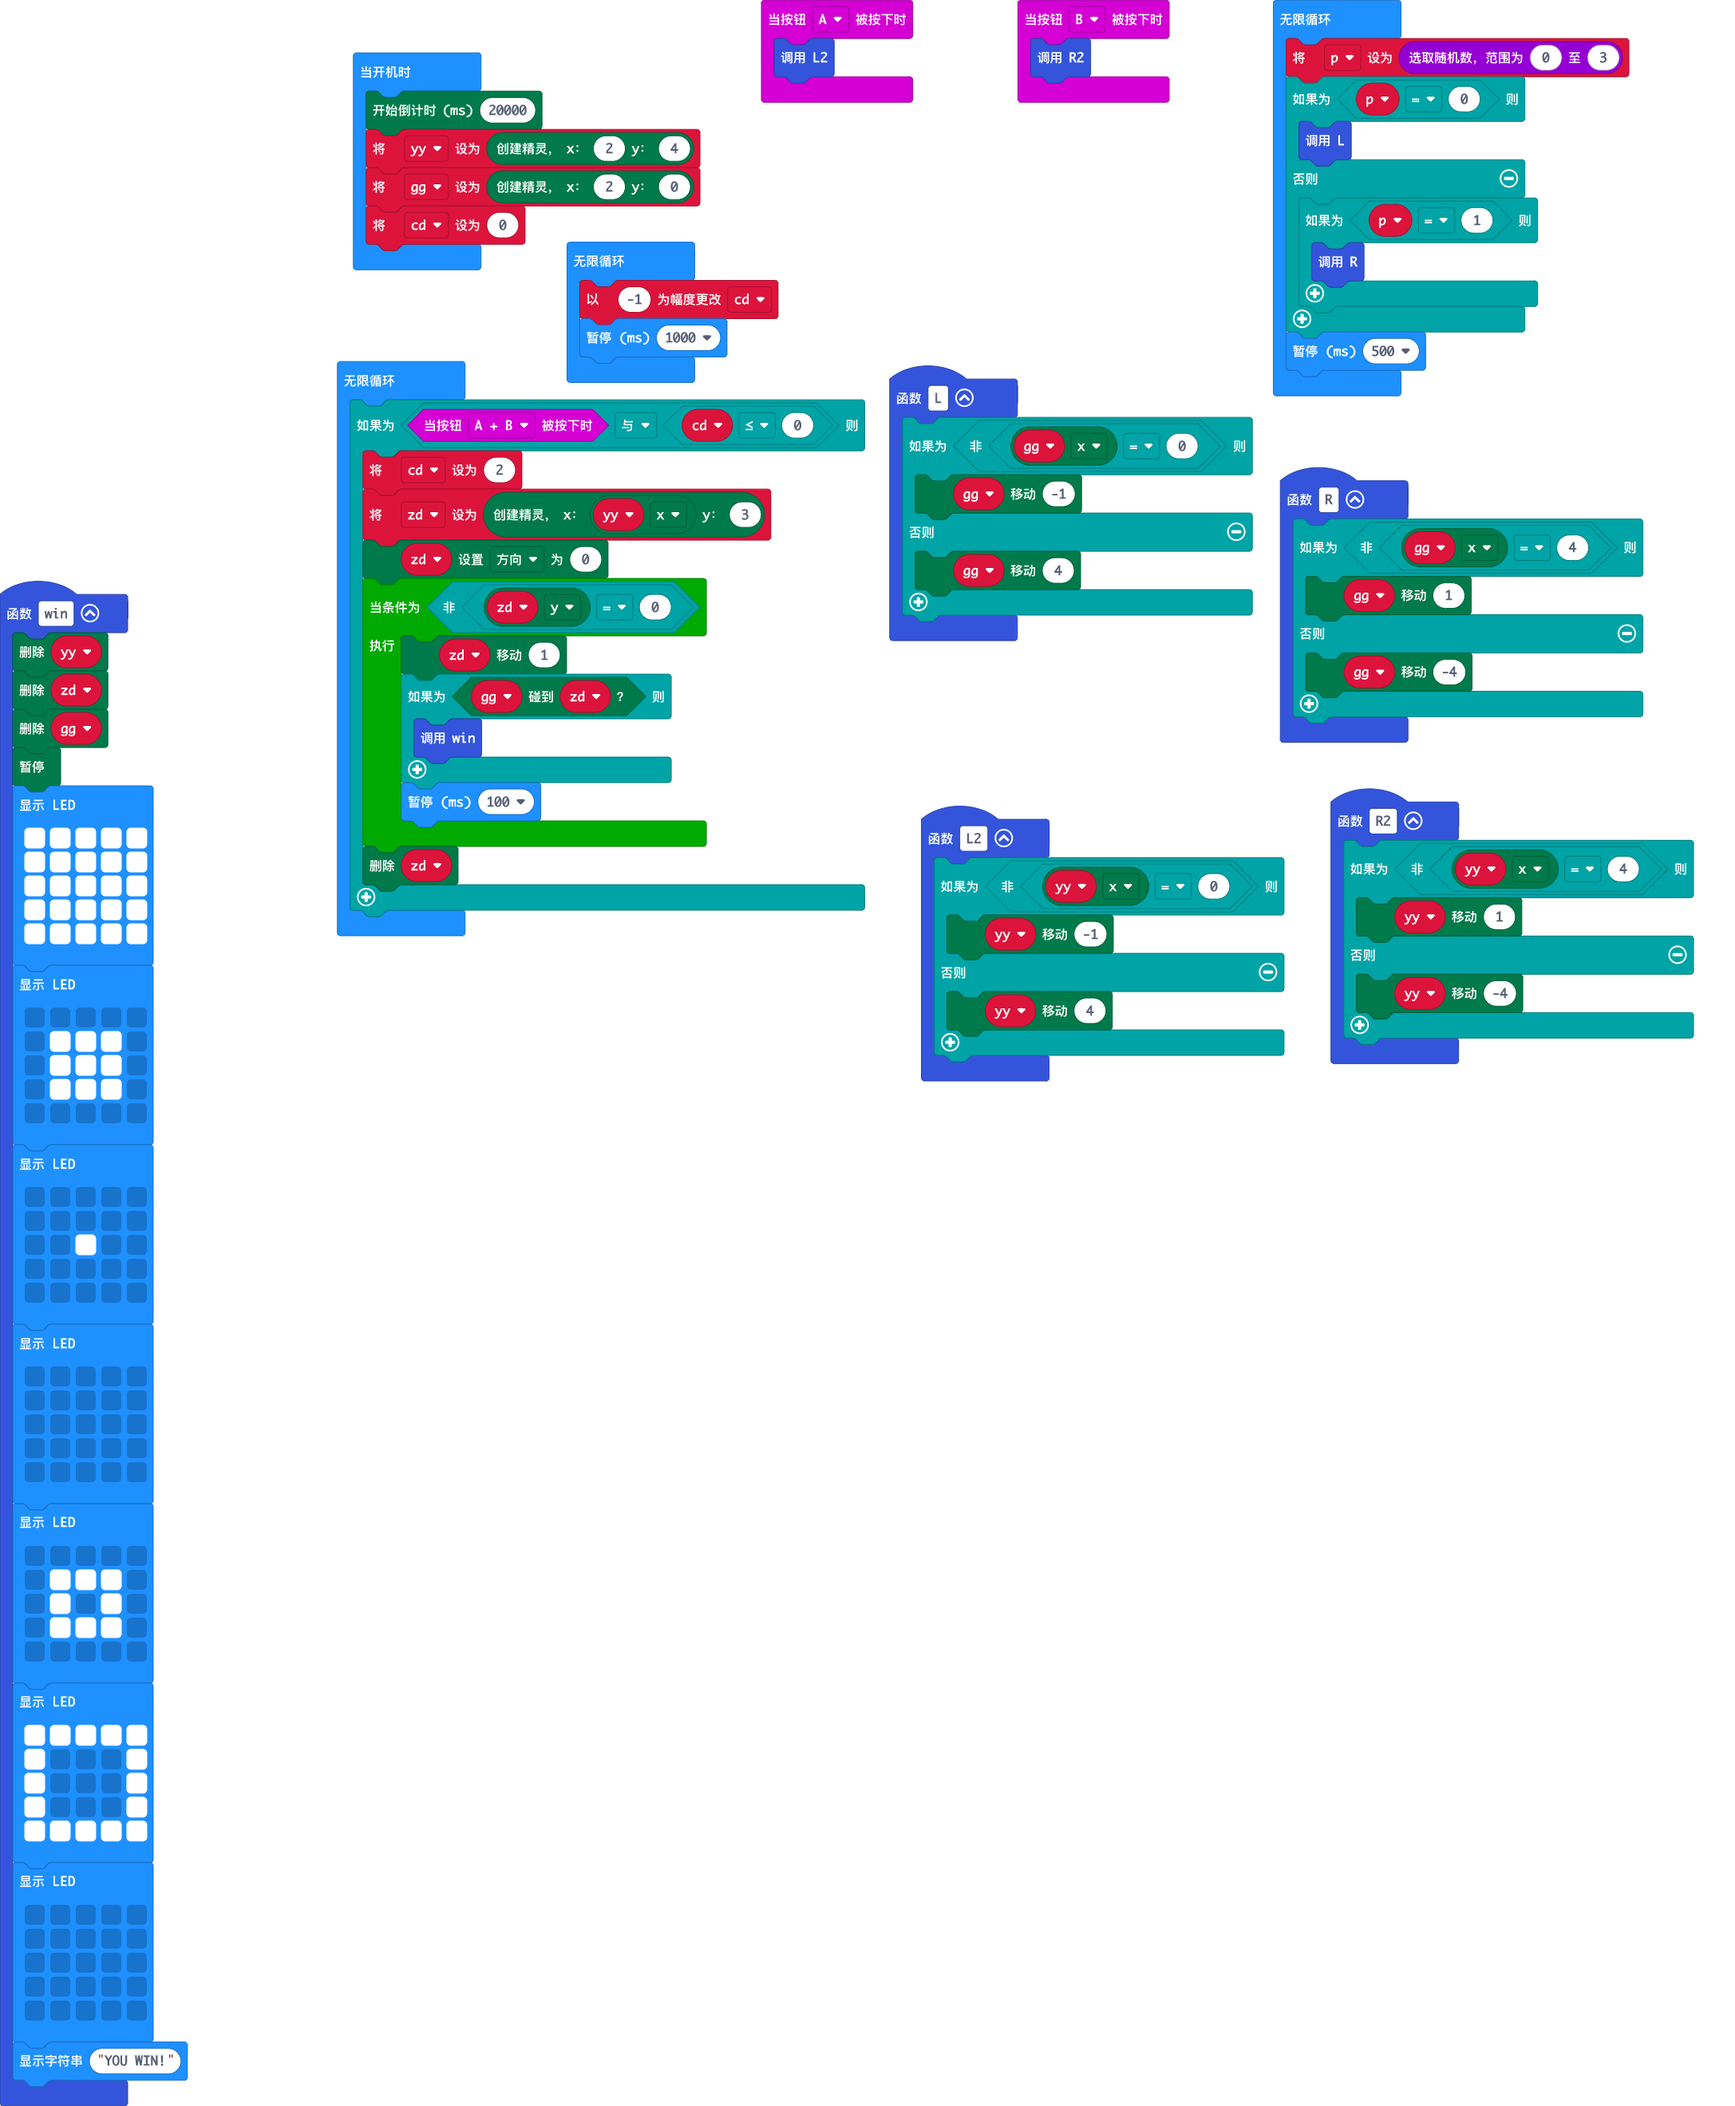
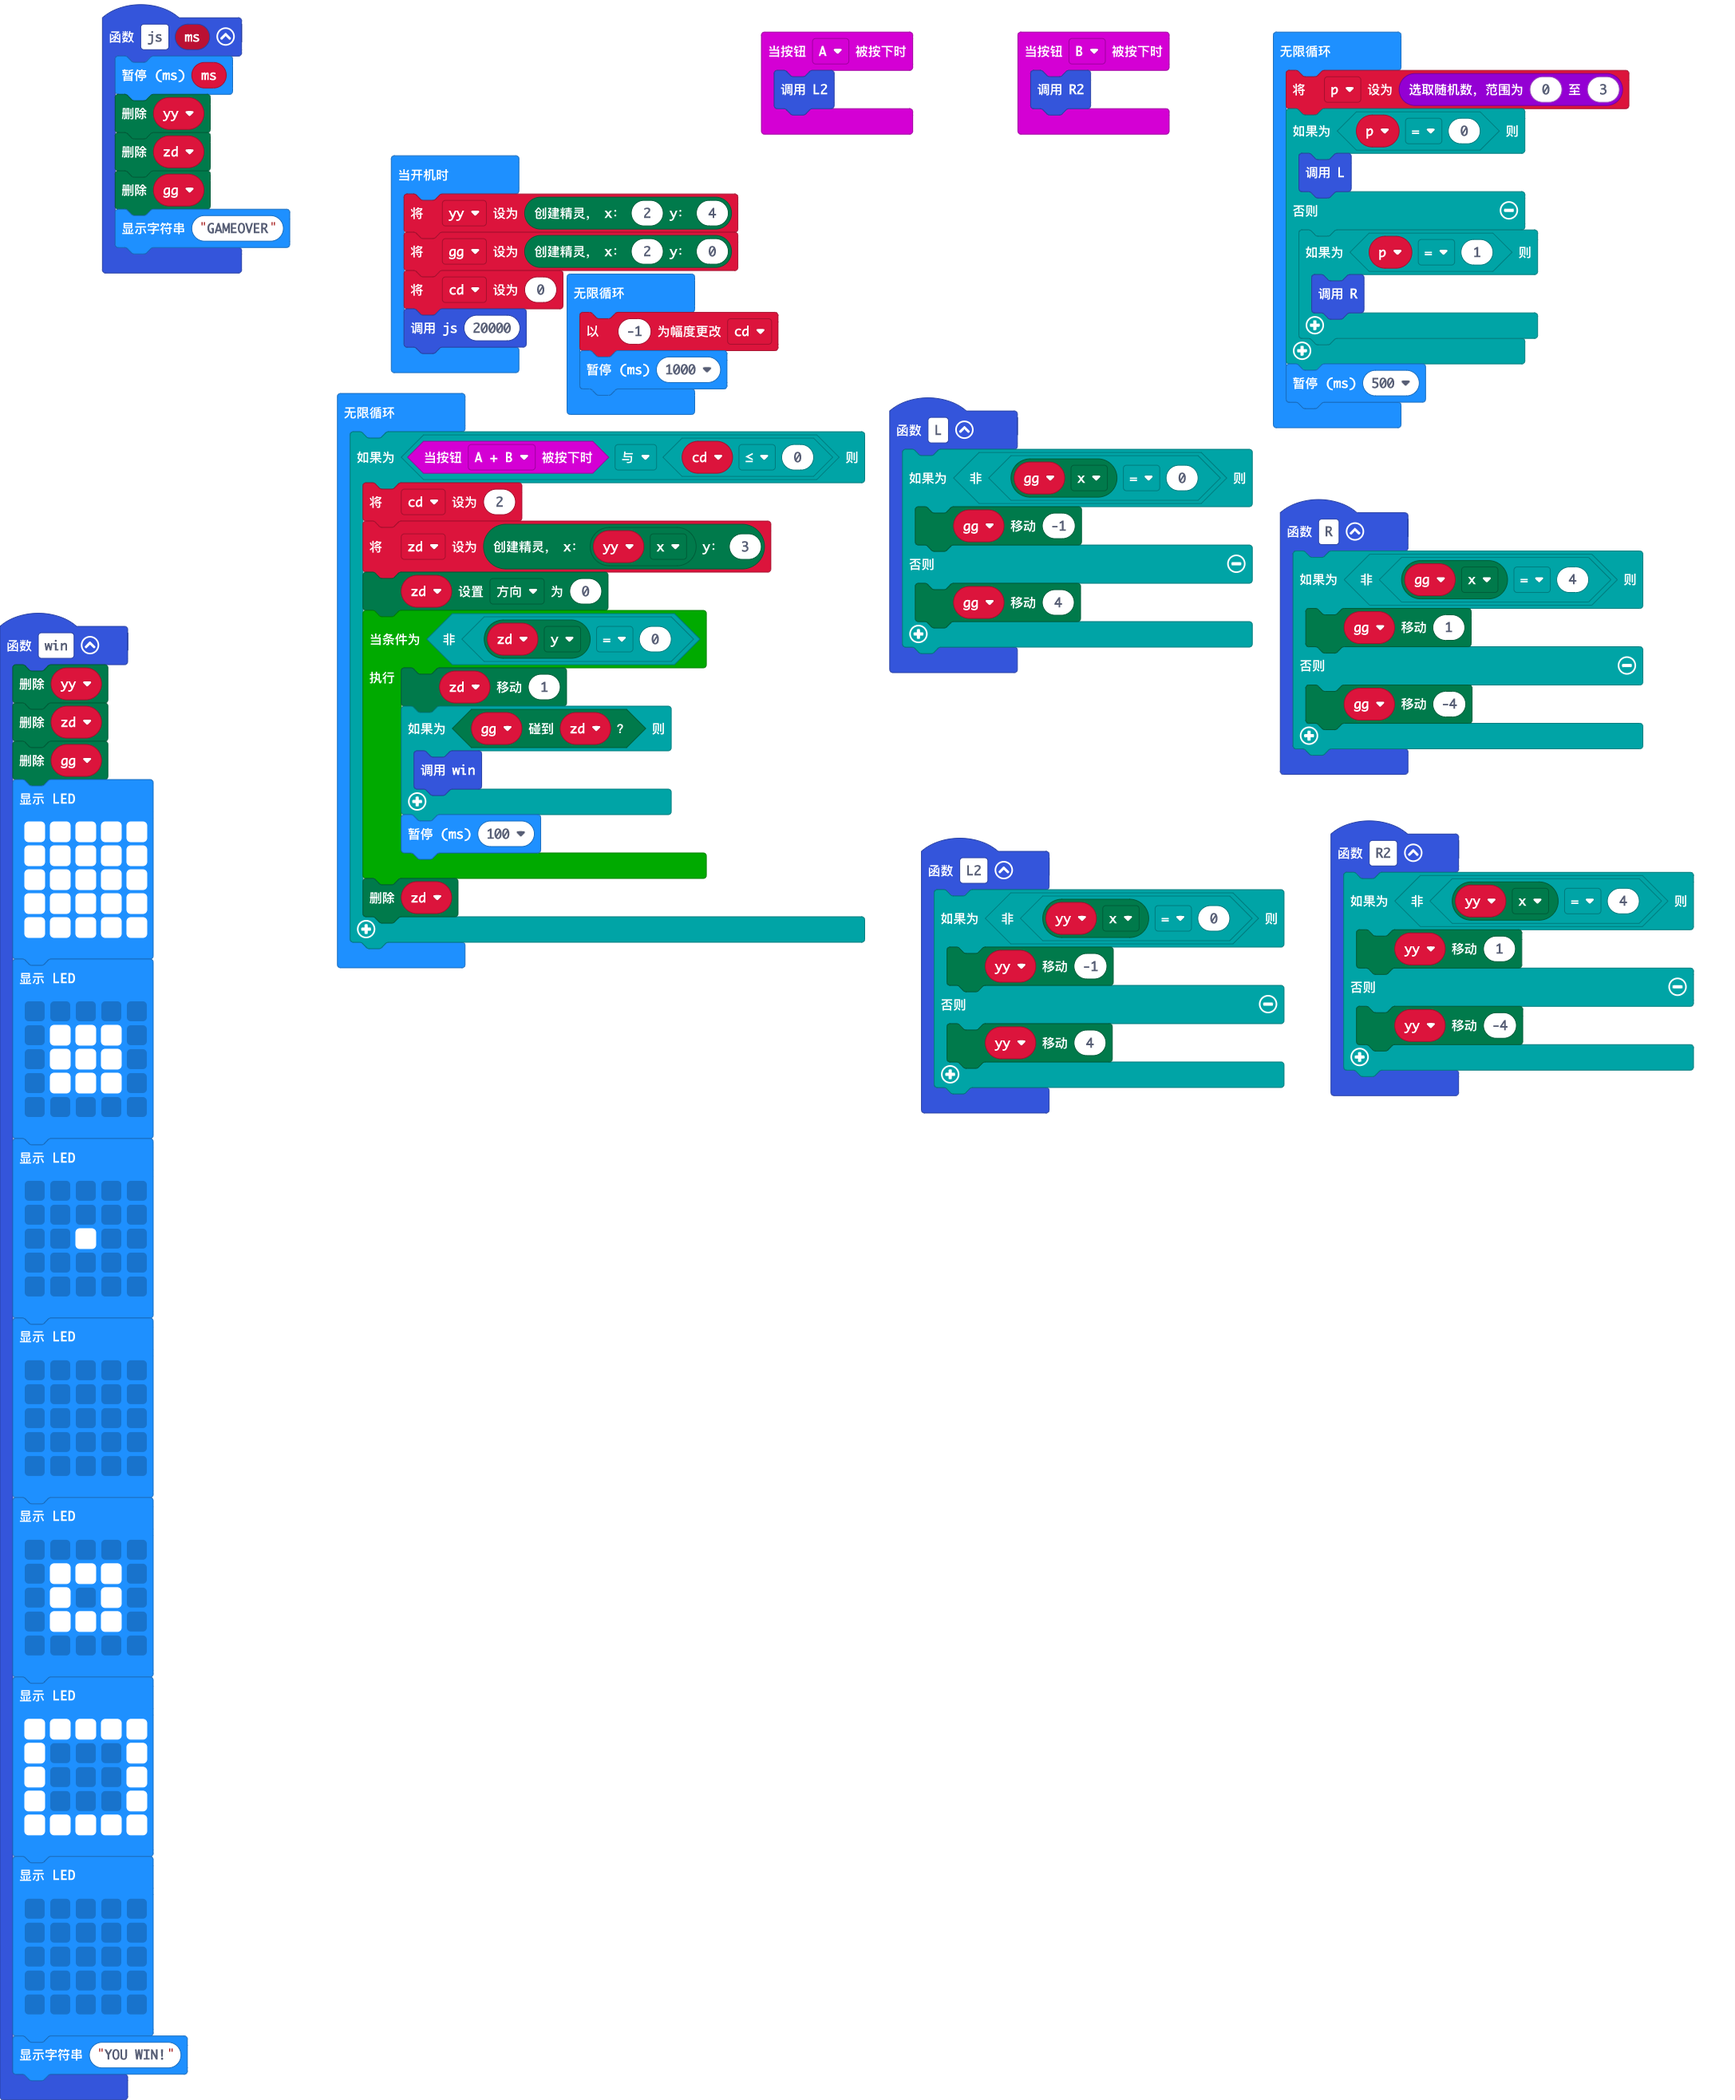
更新 main.blocks, main.ts

diff --git a/main.ts b/main.ts
@@ -5,6 +5,13 @@ function L () {
         gg.move(4)
     }
 }
+function js (ms: number) {
+    basic.pause(ms)
+    yy.delete()
+    zd.delete()
+    gg.delete()
+    basic.showString("GAMEOVER")
+}
 input.onButtonPressed(Button.A, function () {
     L2()
 })
@@ -12,7 +19,6 @@ function win () {
     yy.delete()
     zd.delete()
     gg.delete()
-    game.pause()
     basic.showLeds(`
         # # # # #
         # # # # #
@@ -92,10 +98,10 @@ let p = 0
 let zd: game.LedSprite = null
 let gg: game.LedSprite = null
 let yy: game.LedSprite = null
-game.startCountdown(20000)
 yy = game.createSprite(2, 4)
 gg = game.createSprite(2, 0)
 let cd = 0
+js(20000)
 basic.forever(function () {
     p = randint(0, 3)
     if (p == 0) {
